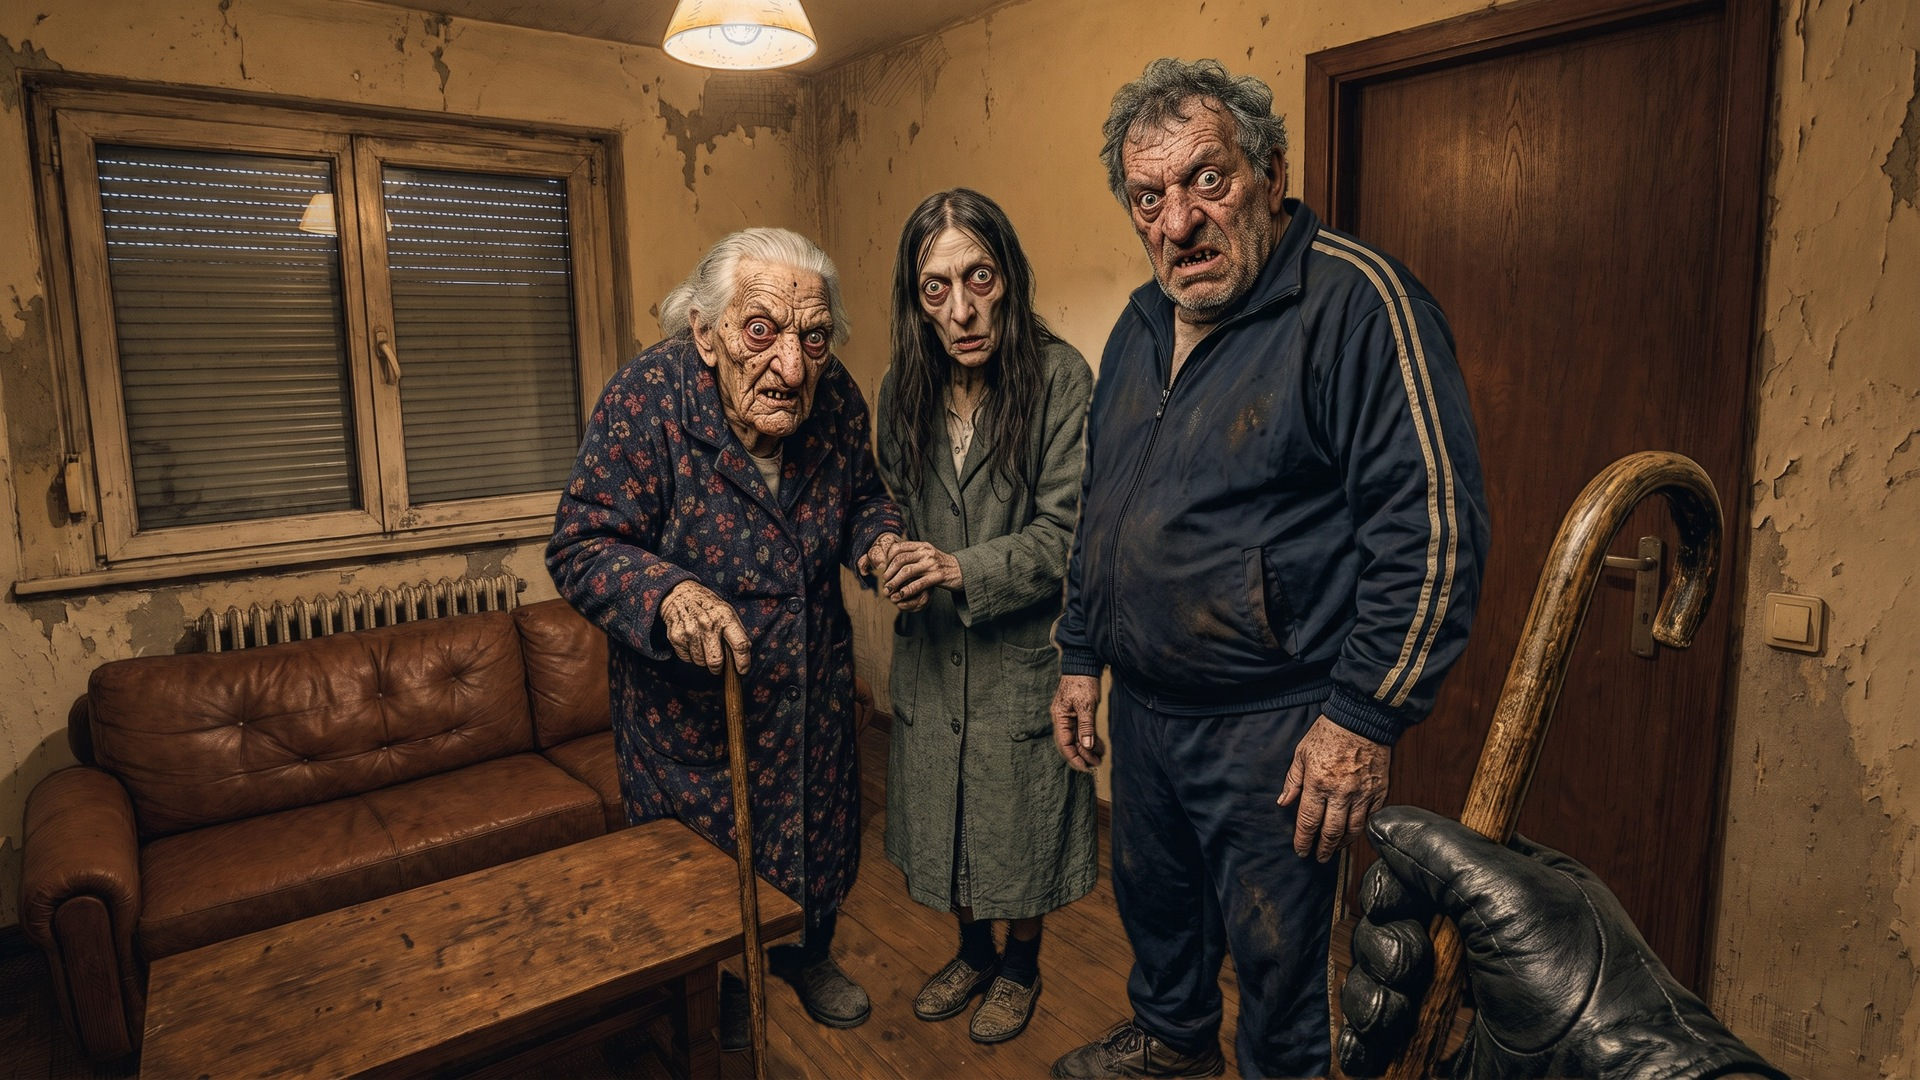
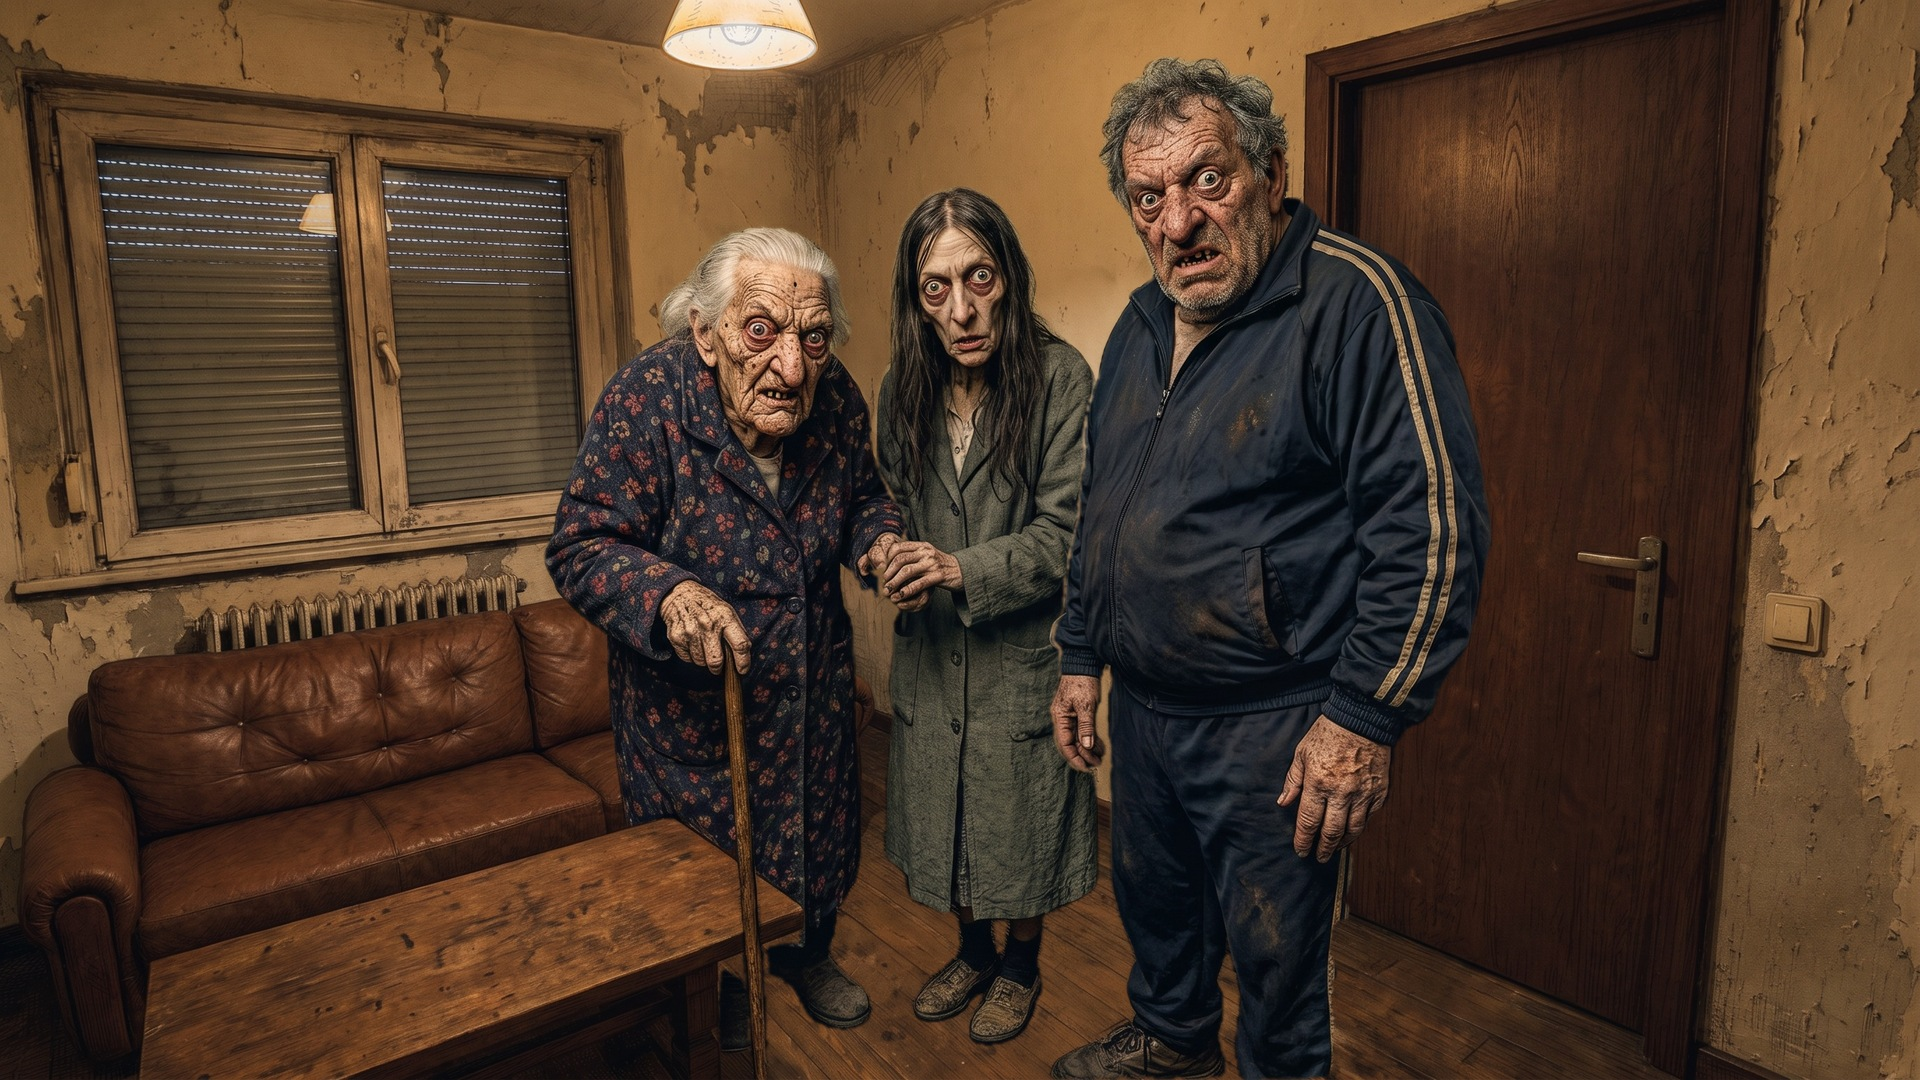
Aggiunge il VHS infrarosso e toglie la mano del medico dalle scene
- tools/filtri.py: filtro infrarosso (rosso tendente al rosa, più scuro e
  più tenue del verde) e vhs_infrarosso
- tools/scena.py: la mano del medico è facoltativa ("mano", spenta di
  base), ritagli configurabili, "escludi_maschere" per togliere elementi
  senza rigenerare, e il filtro infrarosso tra quelli finali
- art/scene/01-cucina e 02-soggiorno: rimontate senza mano e bastone, con
  VHS, VHS verde e VHS infrarosso; foglio di confronto dei filtri
- riepilogo e CLAUDE.md aggiornati

Claude-Session: https://claude.ai/code/session_01RpQD46WQQgWyeaQnPRy7dc

Changed region(s): [[0.6875, 0.3972, 0.9375, 1.0]]

diff --git a/tools/scena.py b/tools/scena.py
@@ -8,7 +8,12 @@ La cartella contiene scena.json con i campi (in inglese, vanno nei prompt):
 - "persone": le persone, con aspetto e posa;
 - "n_persone": quante sono, in lettere ("two", "three");
 - "pose": le persone in breve, per dire al modello di lasciarle al loro posto;
-- "oggetti": gli oggetti della stanza che devono restare fermi.
+- "oggetti": gli oggetti della stanza che devono restare fermi;
+- "mano" (facoltativo, false se manca): true per avere in scena la mano del medico col bastone;
+- "ritagli" (facoltativo): cosa ritagliare con SAM 3; di base persone e bastoni (quelli delle persone),
+  piu' il guanto se c'e' la mano;
+- "escludi_maschere" (facoltativo): nomi dei file in maschere/ da lasciare fuori dal montaggio, per
+  togliere qualcosa dalla scena senza rigenerarla (per esempio la mano del medico).
 
 Passaggi (ognuno salta se il suo file esiste gia': per rifarne uno, cancellalo):
 1. base.jpg: la scena in foto (GPT Image 2);
@@ -16,9 +21,9 @@ Passaggi (ognuno salta se il suo file esiste gia': per rifarne uno, cancellalo):
 3. ammorbiditi.jpg: personaggi e mano rifatti in foto, ammorbiditi (Nano Banana Pro);
 4. stanza_stile.jpg: fumetto.jpg senza persone e senza mano (Nano Banana Pro);
 5. stanza_vuota.jpg: stanza_stile.jpg rifatta in foto (Nano Banana Pro);
-6. maschere/: personaggi, bastone e guanto, ritagliati da ammorbiditi.jpg (SAM 3);
+6. maschere/: i ritagli, da ammorbiditi.jpg (SAM 3);
 7. finale.jpg: personaggi sulla stanza al 20% (tools/intensita.py);
-8. finale_vhs.jpg e finale_vhs_verde.jpg (tools/filtri.py).
+8. finale_vhs.jpg, finale_vhs_verde.jpg e finale_vhs_infrarosso.jpg (tools/filtri.py).
 Le due stanze vuote vengono dalla versione a fumetto, non dalla foto di partenza: GPT, ridisegnando,
 cambia un po' l'inquadratura, e cosi' stanza e personaggi combaciano comunque.
 Con "fino_a" (per esempio "base") si ferma dopo quel passaggio.
@@ -46,26 +51,32 @@ STEPS = ["base", "fumetto", "ammorbiditi", "stanza_stile", "stanza_vuota", "masc
 
 
 def prompts(s):
+    mano = s.get("mano", False)
+    viewer = GLOVE if mano else "No hands, arms or objects belonging to the viewer are visible in the frame."
+    hand_keep = "the gloved hand holding the cane in the lower right foreground, " if mano else ""
+    hand_redo = " and the black leather gloved hand holding the cane" if mano else ""
+    hand_remove = (", and also remove the black leather gloved hand and the wooden cane in the lower right "
+                   "foreground") if mano else ""
     return {
-        "base": (f"First-person view of a plague doctor standing in {s['stanza']} {s['persone']} {GLOVE} Realistic "
+        "base": (f"First-person view of a plague doctor standing in {s['stanza']} {s['persone']} {viewer} Realistic "
                  "photograph, evenly exposed, everything clearly readable, no dramatic shadows. 16:9, no text, no "
                  "border."),
         "fumetto": ("Completely re-render this image in the style described below, transforming it far beyond a "
                     "filter: redraw every surface, light and texture in that technique. Keep the composition: "
-                    f"{s['oggetti']}, the gloved hand holding the cane in the lower right foreground, and {s['pose']}, "
+                    f"{s['oggetti']}, {hand_keep}and {s['pose']}, "
                     f"in the same places and poses. The {s['n_persone']} people must become drawn, deformed, grotesque "
                     "characters, not photographs: exaggerated and distorted proportions, oversized heads, uneven "
                     "bulging eyes, long crooked noses, sunken cheeks, too-wide mouths with bad teeth, elongated bony "
                     "fingers; unsettling and sinister, never cute or cartoonish. No text, no signature, no "
                     "watermark.\n" + STYLE_07),
-        "ammorbiditi": (f"Re-render only the {s['n_persone']} people and the black leather gloved hand holding the "
-                        "cane as realistic photographs: real skin with pores, real hair, real fabric and real leather, "
+        "ammorbiditi": (f"Re-render only the {s['n_persone']} people{hand_redo} "
+                        "as realistic photographs: real skin with pores, real hair, real fabric and real leather, "
                         "photographic lighting. Keep exactly their grotesque, deformed features from this image: the "
                         "same bulging eyes, crooked noses, bad teeth, sunken cheeks, bony elongated fingers, and the "
                         "same proportions, silhouettes, poses, expressions, clothes and positions, pixel for pixel. Do "
                         "not make them look more normal. Everything else in the image stays exactly identical."),
-        "stanza_stile": (f"Remove the {s['n_persone']} people completely, with everything they hold, and also remove "
-                         "the black leather gloved hand and the wooden cane in the lower right foreground. Reconstruct "
+        "stanza_stile": (f"Remove the {s['n_persone']} people completely, with everything they hold{hand_remove}. "
+                         "Reconstruct "
                          "the empty room behind them naturally, in the same drawing style. Keep everything else exactly "
                          f"identical and in the same place: {s['oggetti']}, the same lighting and the same camera. Do "
                          "not draw any face anywhere."),
@@ -149,19 +160,21 @@ def main():
     masks_dir.mkdir(exist_ok=True)
     if not list(masks_dir.glob("*_maschera*.png")):
         src = "@file:../ammorbiditi.jpg"
-        run_jobs([job("persone", SAM, image=src, prompt="person", max_masks=6),
-                  job("bastone", SAM, image=src, prompt="cane", max_masks=3),
-                  job("guanto", SAM, image=src, prompt="glove", max_masks=2)], masks_dir, key, log)
+        cuts = s.get("ritagli", ["person", "cane"] + (["glove"] if s.get("mano") else []))
+        names = {"person": "persone", "cane": "bastone", "glove": "guanto"}
+        run_jobs([job(names.get(c, c.replace(" ", "_")), SAM, image=src, prompt=c, max_masks=6) for c in cuts],
+                 masks_dir, key, log)
     if done("maschere"):
         return
-    masks = sorted(str(m.relative_to(folder)) for m in masks_dir.glob("*_maschera*.png"))
+    skip = set(s.get("escludi_maschere", []))
+    masks = sorted(str(m.relative_to(folder)) for m in masks_dir.glob("*_maschera*.png") if m.name not in skip)
     (folder / "montaggio.json").write_text(json.dumps({
         "stile": "ammorbiditi.jpg", "sfondo": "stanza_vuota.jpg", "sfondo_stile": "stanza_stile.jpg",
         "intensita_sfondo": 0.2, "maschere": masks, "allarga": 3, "sfuma": 1.2, "uscita": "finale.jpg"}, indent=2))
     subprocess.run([sys.executable, "-I", str(HERE / "intensita.py"), str(folder / "montaggio.json")], check=True)
     if done("finale"):
         return
-    for f in ["vhs", "vhs_verde"]:
+    for f in ["vhs", "vhs_verde", "vhs_infrarosso"]:
         subprocess.run([sys.executable, "-I", str(HERE / "filtri.py"), f, str(folder / "finale.jpg"),
                         str(folder / f"finale_{f}.jpg")], check=True)
     done("filtri")

diff --git a/tools/filtri.py b/tools/filtri.py
@@ -12,6 +12,8 @@ Filtri:
 - vhs: videocassetta (crominanza sbavata, righe, disturbi, banda di tracking,
   scritte del videoregistratore);
 - vhs_verde: il verde con i difetti della videocassetta;
+- infrarosso: come il verde, ma rosso tendente al rosa, piu' scuro e piu' tenue;
+- vhs_infrarosso: l'infrarosso con i difetti della videocassetta;
 - fotocopia: bianco e nero sporco da fotocopiatrice.
 """
 import pathlib
@@ -72,6 +74,17 @@ def verde(a):
     g = gradient_map(l, GREEN)
     g = bloom(g, 0.55, 0.35, 16)
     return grain(vignette(g, 0.65), 0.03, 1)
+
+
+INFRARED = [(6, 2, 4), (34, 10, 17), (84, 30, 44), (150, 80, 94), (214, 162, 172)]
+
+
+def infrarosso(a):
+    # contrasto piu' basso (tenue) e mezzitoni spinti verso il basso (piu' scuro del verde)
+    l = np.clip((lum(a) - 0.5) * 1.0 + 0.5, 0, 1) ** 1.25
+    g = gradient_map(l, INFRARED)
+    g = bloom(g, 0.6, 0.2, 16)
+    return grain(vignette(g, 0.75), 0.03, 4)
 
 
 def verde_acido(a):
@@ -144,6 +157,10 @@ def vhs_verde(a):
     return osd(vhs_artifacts(verde(a), False, 5), (196, 248, 224))
 
 
+def vhs_infrarosso(a):
+    return osd(vhs_artifacts(infrarosso(a), False, 6), (232, 186, 194))
+
+
 def fotocopia(a, seed=7):
     rng = np.random.default_rng(seed)
     h, w = a.shape[:2]
@@ -166,7 +183,8 @@ def fotocopia(a, seed=7):
 
 
 FILTERS = {"verde": verde, "verde_acido": verde_acido, "verde_retinato": verde_retinato, "verde_rosso": verde_rosso,
-           "vhs": vhs, "vhs_verde": vhs_verde, "fotocopia": fotocopia}
+           "vhs": vhs, "vhs_verde": vhs_verde, "infrarosso": infrarosso, "vhs_infrarosso": vhs_infrarosso,
+           "fotocopia": fotocopia}
 
 
 def main():

diff --git a/docs/riepilogo.md b/docs/riepilogo.md
@@ -1,6 +1,6 @@
 # Riepilogo del progetto
 
-Ultimo aggiornamento: 25 ottobre 2026.
+Ultimo aggiornamento: 26 ottobre 2026.
 
 ## Obiettivo
 
@@ -16,8 +16,9 @@ Un gioco originale da vendere su Steam, nel filone dei giochi di ispezione e par
   - **Stanza:** foto con lo stile 07 fumetto underground al 20%, come nella combinazione 02 (`art/prove-stile/06-cucina`).
   - **Personaggi grotteschi ma ammorbiditi, quasi fotografici** (scelta del 26 ottobre): `art/prove-stile/11-personaggi-50/c_ammorbiditi_sfondo20.jpg`. Hanno preso il posto dei personaggi a fumetto al 100%. Metodo in "Personaggi ammorbiditi".
   - **Filtro finale: VHS** per le scene normali e **VHS verde** per le scene al buio (`art/prove-stile/08-filtri`, `tools/filtri.py`). Se il VHS dà fastidio, si attenua.
+  - **Variante da valutare: VHS infrarosso** (26 ottobre), rosso tendente al rosa, più scuro e più tenue del verde. Confronto sulle due stanze: `art/scene/foglio_scene_filtri.jpg`.
   - **Il VHS sarà animato**, calcolato in tempo reale (uno shader): grana e tremolio delle righe a ogni fotogramma, una banda di disturbo che sale lentamente, il rumore della testina in fondo, uno strappo ogni tanto, e uno strappo più forte quando si passa alla scena al buio. Anteprima con intensità regolabile: https://claude.ai/artifact/RU45gcnW8J3ttttUTSde2R (copia in `art/prove-stile/09-vhs-animato`; lo shader WebGL è la base per quello del gioco).
-  - La mano e il bastone del medico seguono i personaggi.
+- **Per ora niente mano e bastone del medico sullo schermo** (26 ottobre): non piacciono. Le scene si fanno senza (`"mano": false` in `scena.json`, il valore di base).
 - **Regola per le stanze:** partire sempre da stanze con pochi dettagli (muri lisci, pochi oggetti), altrimenti i personaggi si perdono.
 - **Grafica generata con l'AI**, montata a strati come in NINAH. Niente fotogrammi "da film".
 
@@ -69,27 +70,29 @@ Attenzione: i modelli a volte inventano dettagli (per esempio una faccia nel tel
 ### Personaggi ammorbiditi (il metodo scelto)
 
 **Tutto il procedimento è automatico in `tools/scena.py`**: si scrive la descrizione della scena in `scena.json` (stanza, persone, pose, oggetti; esempio in `art/scene/02-soggiorno/scena.json`) e lo script fa i passaggi:
-1. **Foto di partenza** (GPT Image 2): stanza con pochi dettagli, persone, mano del medico in primo piano.
+1. **Foto di partenza** (GPT Image 2): stanza con pochi dettagli e persone; la mano del medico in primo piano solo con `"mano": true`.
 2. **Fumetto** (GPT Image 2): la scena ridisegnata nello stile 07, personaggi deformi.
-3. **Personaggi ammorbiditi** (Nano Banana Pro): rifà in foto solo personaggi e mano, lasciando il resto com'è e **senza** passare un riferimento a fumetto: le deformità si ammorbidiscono, ed è proprio l'effetto voluto.
-4. **Stanza nello stile** (Nano Banana Pro): il fumetto senza persone né mano.
+3. **Personaggi ammorbiditi** (Nano Banana Pro): rifà in foto solo i personaggi (e la mano, se c'è), lasciando il resto com'è e **senza** passare un riferimento a fumetto: le deformità si ammorbidiscono, ed è proprio l'effetto voluto.
+4. **Stanza nello stile** (Nano Banana Pro): il fumetto senza persone (né mano).
 5. **Stanza in foto** (Nano Banana Pro): la stanza nello stile rifatta in foto. Le due stanze vuote vengono dal fumetto e non dalla foto di partenza, perché GPT ridisegnando sposta un po' l'inquadratura: così stanza e personaggi combaciano sempre.
-6. **Maschere** (SAM 3): persone, bastone e guanto, dalla versione con i personaggi ammorbiditi.
-7. **Montaggio** (`tools/intensita.py`): personaggi sulla stanza al 20%.
-8. **Filtri** (`tools/filtri.py`): VHS e VHS verde.
+6. **Maschere** (SAM 3): persone e bastoni (quelli delle persone, per esempio della nonna), più il guanto se c'è la mano. Con `"ritagli"` in `scena.json` si sceglie cosa ritagliare.
+7. **Montaggio** (`tools/intensita.py`): personaggi sulla stanza al 20%. Con `"escludi_maschere"` si toglie qualcosa dalla scena senza rigenerarla (così è stata tolta la mano dal soggiorno).
+8. **Filtri** (`tools/filtri.py`): VHS, VHS verde e VHS infrarosso.
 
 Costa circa 1 dollaro a scena. Ogni passaggio salta se il suo file esiste già: per rifarne uno basta cancellarlo.
 
-La cucina (scena 01) è stata fatta a mano prima dello script, con gli stessi passaggi: `art/prove-stile/11-personaggi-50` (montaggio in `scena_c.json`). D'ora in poi il riferimento del padre per gli altri stati e inquadrature è `art/prove-stile/11-personaggi-50/padre_riferimento_ammorbidito.jpg`.
+La cucina (scena 01) è stata fatta a mano prima dello script, con gli stessi passaggi: le immagini sono in `art/prove-stile/11-personaggi-50`, il montaggio senza mano in `art/scene/01-cucina/montaggio.json`. D'ora in poi il riferimento del padre per gli altri stati e inquadrature è `art/prove-stile/11-personaggi-50/padre_riferimento_ammorbidito.jpg`.
 
 Mescolare i personaggi a un'intensità intermedia (per esempio 50% foto e 50% fumetto) funziona solo se le due versioni hanno le stesse sagome e le stesse facce, altrimenti si vedono due paia di occhi (`intensita_personaggi` e `personaggi_originale` in `tools/intensita.py`).
 
 ### Scene fatte
 
-- **01 Cucina** (`art/prove-stile/11-personaggi-50`): il padre e la figlia; quattro piatti in tavola, una porta socchiusa su un corridoio buio.
-- **02 Soggiorno** (`art/scene/02-soggiorno`): una nonna col bastone, una giovane donna pallida e un uomo in tuta davanti a una porta chiusa; dietro la porta nascondono qualcuno. Nella foto di partenza il bastone del medico è venuto col manico ricurvo, diverso da quello della cucina.
+Ogni scena ha `finale.jpg` (senza filtro), `finale_vhs.jpg`, `finale_vhs_verde.jpg` e `finale_vhs_infrarosso.jpg`, tutte senza la mano del medico. Confronto dei filtri: `art/scene/foglio_scene_filtri.jpg`.
 
-Idea emersa: nel gioco la mano del medico col bastone dovrebbe essere un elemento fisso, disegnato una volta sola e uguale in tutte le scene (come l'arma in NINAH), non generata ogni volta con la scena.
+- **01 Cucina** (`art/scene/01-cucina`): il padre e la figlia; quattro piatti in tavola, una porta socchiusa su un corridoio buio.
+- **02 Soggiorno** (`art/scene/02-soggiorno`): una nonna col bastone, una giovane donna pallida e un uomo in tuta davanti a una porta chiusa; dietro la porta nascondono qualcuno.
+
+Se un giorno la mano del medico tornerà sullo schermo, conviene che sia un elemento fisso, disegnato una volta sola e uguale in tutte le scene (come l'arma in NINAH), non generata ogni volta con la scena: nel soggiorno il bastone era venuto col manico ricurvo, diverso da quello della cucina.
 
 ### Coerenza dei personaggi (`art/prove-stile/10-coerenza`)
 
@@ -139,7 +142,7 @@ Questionario dei filtri (08), con i voti salvati: https://claude.ai/artifact/MQT
 - `tools/fal_batch.py`: genera immagini su fal.ai da un file di lavori JSON; passa immagini locali con `@file:` e salva anche le maschere dei modelli di segmentazione.
 - `tools/schermata.py`: monta una schermata a strati; con un "trattamento" applica la resa unica, senza fa solo il montaggio.
 - `tools/intensita.py`: applica lo stile con intensità diverse a sfondo e personaggi; con "buio" fa sprofondare la stanza nel buio fuori da un cono di luce.
-- `tools/filtri.py`: filtri finali per rendere omogenee immagini di stili diversi (verdi, VHS, fotocopia). Non usa l'AI, quindi non costa niente.
+- `tools/filtri.py`: filtri finali per rendere omogenee immagini di stili diversi (verdi, infrarosso, VHS, fotocopia). Non usa l'AI, quindi non costa niente.
 - Servizio: **fal.ai**. La chiave si legge da `FAL_KEY` (impostazioni dell'ambiente cloud) o da `~/.config/fal/key`; mai nel repo.
 - Modelli:
   - **GPT Image 2** (`openai/gpt-image-2`, `/edit`): il migliore per scene nuove e trasformazioni di stile. Non fa sfondi trasparenti, e il filtro dei contenuti blocca parole come "soldato ferito" o "insanguinato", e anche i bambini in una scena horror: nelle scene niente bambini.
@@ -186,7 +189,7 @@ NINAH è quasi tutto 2D. Per ora bastano sfondi 2D generati; il 3D servirebbe so
 
 ## Prossimi passi
 
-1. La mano del medico col bastone come elemento fisso, uguale in tutte le scene.
+1. Decidere se tenere il VHS infrarosso, al posto del verde o accanto.
 2. Schede dei personaggi: un riferimento per ognuno, da usare in tutte le scene e in tutti gli stati.
 3. Schermata completa nello stile scelto (personaggi ammorbiditi, VHS): interfaccia e riquadro del dettaglio esaminato.
 4. Prototipo giocabile del ciclo base (motore proposto: Godot 4).

diff --git a/CLAUDE.md b/CLAUDE.md
@@ -5,7 +5,7 @@ Videogioco per Steam in fase di ideazione: per ora non c'è codice di gioco. Si 
 - Le decisioni prese finora sono in `docs/riepilogo.md`: leggilo prima di proporre idee nuove.
 - Le immagini si generano con fal.ai; la chiave API è nella variabile d'ambiente `FAL_KEY`. Non chiederla mai in chat.
 - Il gioco: il Medico della peste, in un'ambientazione moderna (case povere di oggi in un paese sperduto).
-- Regole di stile già decise: partire sempre da stanze con pochi dettagli; stanza in foto con lo stile 07 fumetto underground al 20%; personaggi grotteschi ma ammorbiditi e quasi fotografici; filtro finale VHS animato, e VHS verde per le scene al buio (metodo in `docs/riepilogo.md`, sezione "Personaggi ammorbiditi").
+- Regole di stile già decise: partire sempre da stanze con pochi dettagli; stanza in foto con lo stile 07 fumetto underground al 20%; personaggi grotteschi ma ammorbiditi e quasi fotografici; filtro finale VHS animato, e VHS verde per le scene al buio (in valutazione anche il VHS infrarosso); per ora niente mano e bastone del medico sullo schermo (metodo in `docs/riepilogo.md`, sezione "Personaggi ammorbiditi").
 - Le scene nuove si fanno con `tools/scena.py` (descrizione in `scena.json`, esempio in `art/scene/02-soggiorno`): esegue tutto il procedimento deciso.
 - Per cambiare lo stato di un personaggio (febbre, bubboni...) passa sempre anche la sua immagine di riferimento, altrimenti la faccia cambia.
 - GPT Image 2 rifiuta i bambini nelle scene horror: niente bambini nelle scene.
